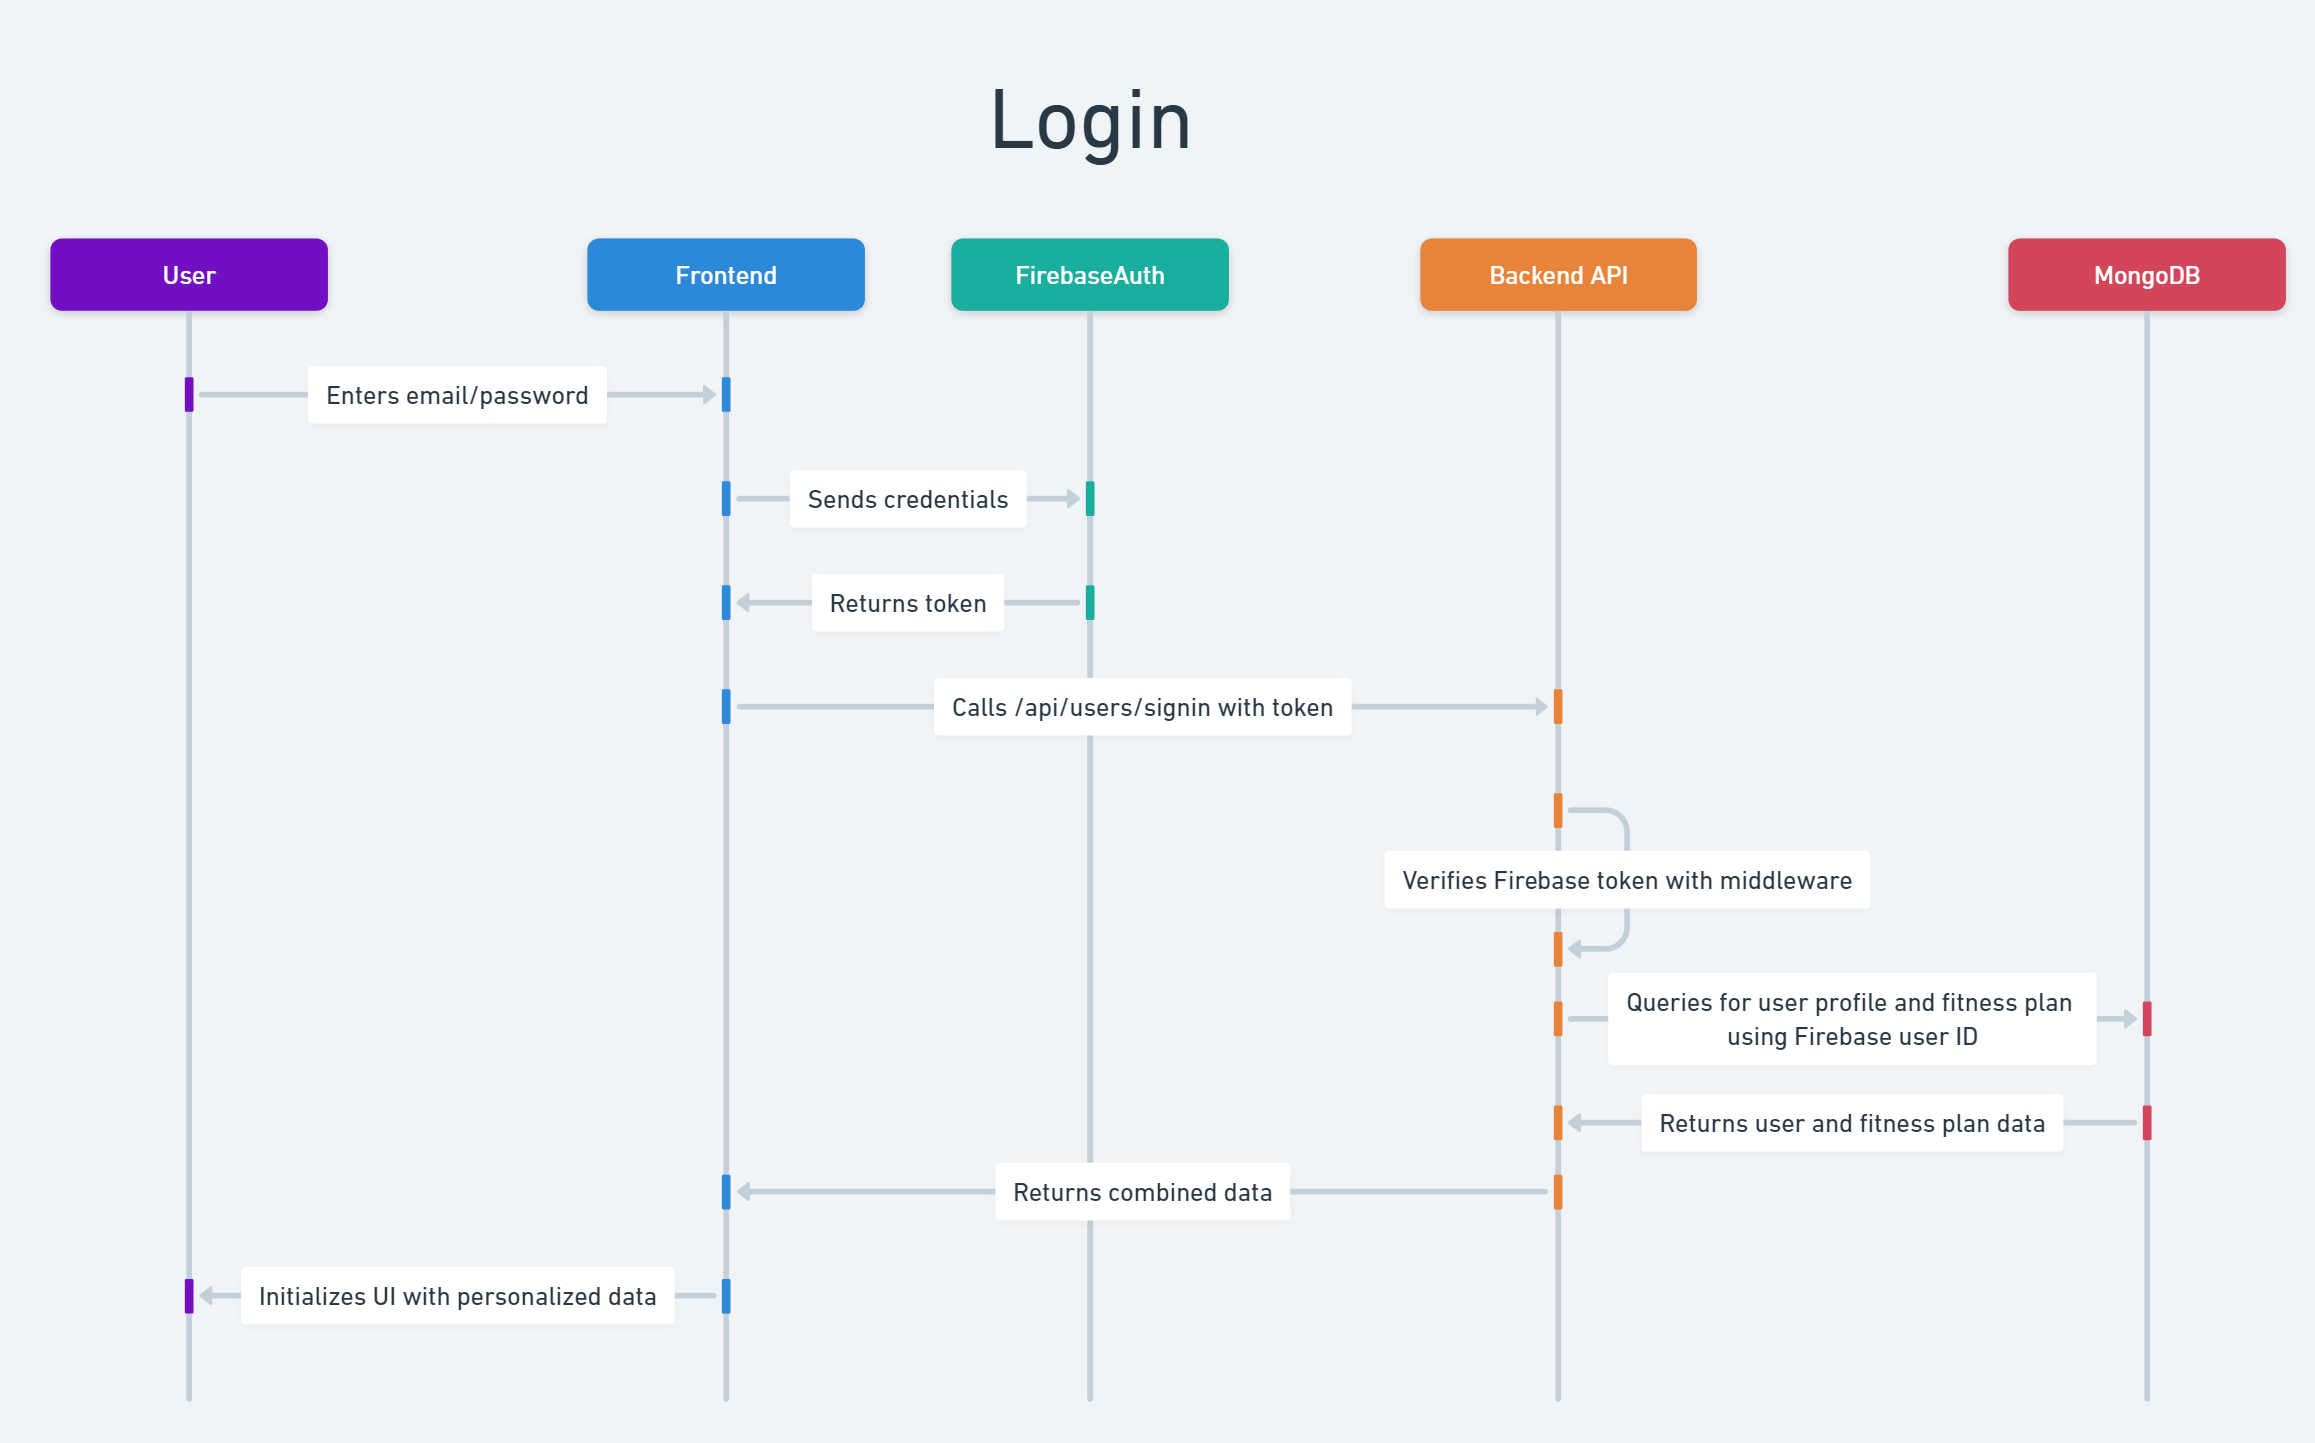
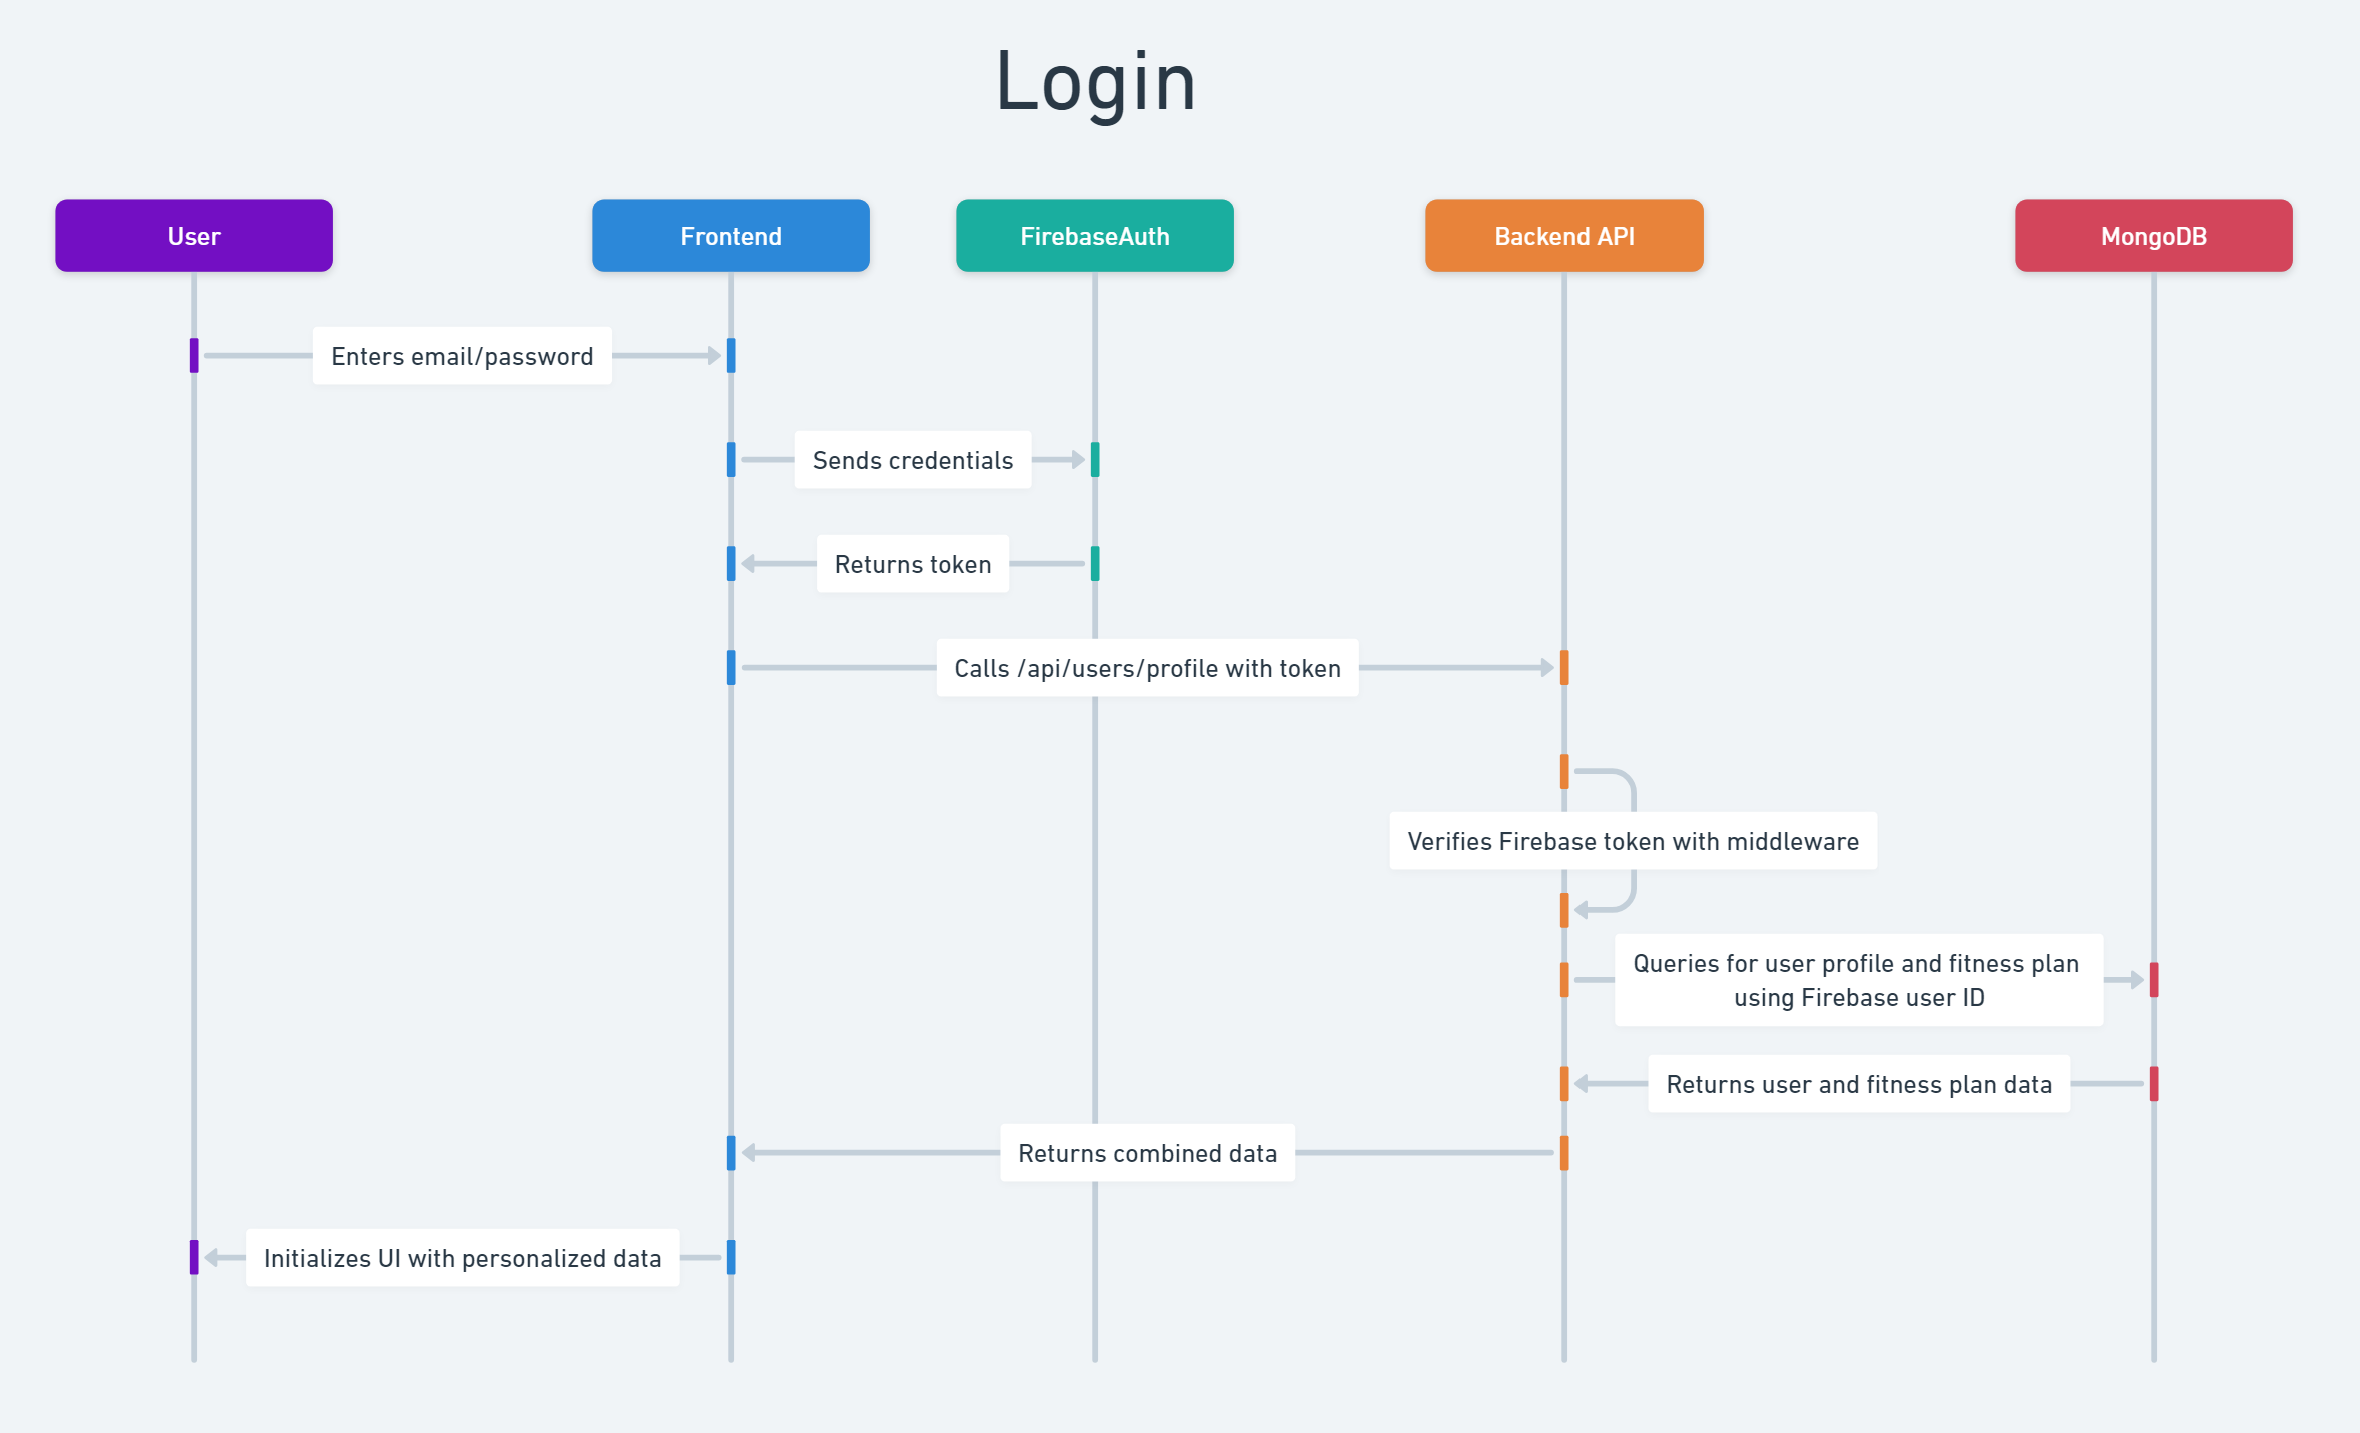
feat: add user profile retrieval endpoint and enhance onboarding logic

diff --git a/src/controllers/userController.js b/src/controllers/userController.js
@@ -2,6 +2,7 @@ import {
   createOrUpdateUserProfile,
   formatUserDataForAI,
   saveFitnessPlan,
+  getUserWithFitnessPlan,
 } from "../services/userService.js";
 import { generateContent as generateGeminiContent } from "../services/aiFitnessServiceGemini.js";
 
@@ -34,21 +35,48 @@ export const onboardUser = async (req, res) => {
         .json({ error: "Email in request does not match authenticated user" });
     }
 
-    console.log(`Onboarding user: ${userId}, email: ${userEmail}`);
+    console.log(
+      `Checking if user already exists: ${userId}, email: ${userEmail}`
+    );
+
+    // Check if user already exists with a fitness plan
+    const existingUserData = await getUserWithFitnessPlan(userId);
+
+    if (
+      existingUserData &&
+      existingUserData.user &&
+      existingUserData.fitnessPlan
+    ) {
+      console.log(`User already onboarded: ${userId}, returning existing data`);
+      return res.status(200).json({
+        message: "User already onboarded",
+        user: existingUserData.user,
+        fitnessPlan: existingUserData.fitnessPlan,
+      });
+    }
+
+    console.log(`Onboarding new user: ${userId}, email: ${userEmail}`);
 
     // Save user profile to MongoDB
     const savedUser = await createOrUpdateUserProfile(userId, userData);
 
     // Format user data for Gemini API
-    const aiRequestData = formatUserDataForAI(userData.profile);
-
-    // Generate personalized plan using Gemini
+    const aiRequestData = formatUserDataForAI(userData.profile); // Generate personalized plan using Gemini
     const generatedPlan = await generateGeminiContent(
       JSON.stringify(aiRequestData)
     );
 
     // Parse the generated plan
-    const parsedPlan = JSON.parse(generatedPlan);
+    let parsedPlan;
+    try {
+      parsedPlan = JSON.parse(generatedPlan);
+    } catch (parseError) {
+      console.error("Error parsing generated plan:", parseError);
+      return res.status(500).json({
+        error: "Failed to parse generated fitness plan",
+        rawResponse: generatedPlan.substring(0, 500) + "...", // Include partial raw response for debugging
+      });
+    }
 
     // Save plan to MongoDB
     const savedPlan = await saveFitnessPlan(userId, parsedPlan);
@@ -74,11 +102,16 @@ export const regeneratePlan = async (req, res) => {
     const userId = req.user.uid;
     const userEmail = req.user.email; // Email from Firebase token
 
-    // Get existing user profile
-    const userProfile = await findUserById(userId);
-    if (!userProfile) {
+    // Get existing user with fitness plan
+    const existingUserData = await getUserWithFitnessPlan(userId);
+
+    if (!existingUserData || !existingUserData.user) {
       return res.status(404).json({ error: "User not found" });
-    } // Additional verification: check if the user email matches the token email
+    }
+
+    const userProfile = existingUserData.user;
+
+    // Additional verification: check if the user email matches the token email
     if (
       userProfile.userInfo &&
       userProfile.userInfo.email &&
@@ -89,15 +122,22 @@ export const regeneratePlan = async (req, res) => {
       );
       // Still proceed with the request since userId is already verified
     } // Format user data for Gemini API
-    const aiRequestData = formatUserDataForAI(userProfile);
-
-    // Generate new personalized plan
+    const aiRequestData = formatUserDataForAI(userProfile); // Generate new personalized plan
     const generatedPlan = await generateGeminiContent(
       JSON.stringify(aiRequestData)
     );
 
     // Parse the generated plan
-    const parsedPlan = JSON.parse(generatedPlan);
+    let parsedPlan;
+    try {
+      parsedPlan = JSON.parse(generatedPlan);
+    } catch (parseError) {
+      console.error("Error parsing generated plan:", parseError);
+      return res.status(500).json({
+        error: "Failed to parse generated fitness plan",
+        rawResponse: generatedPlan.substring(0, 500) + "...", // Include partial raw response for debugging
+      });
+    }
 
     // Save or update plan in MongoDB
     const savedPlan = await saveFitnessPlan(userId, parsedPlan);
@@ -109,5 +149,33 @@ export const regeneratePlan = async (req, res) => {
   } catch (error) {
     console.error("Error regenerating fitness plan:", error);
     res.status(500).json({ error: "Failed to regenerate fitness plan" });
+  }
+};
+
+/**
+ * Get current user profile with fitness plan
+ * @route GET /api/users/profile
+ */
+export const getCurrentUserProfile = async (req, res) => {
+  try {
+    const userId = req.user.uid; // Firebase user ID from auth middleware
+
+    console.log(`Getting profile for user: ${userId}`);
+
+    // Get user data with fitness plan
+    const userData = await getUserWithFitnessPlan(userId);
+
+    if (!userData || !userData.user) {
+      return res.status(404).json({ error: "User profile not found" });
+    }
+
+    // Return user profile and fitness plan
+    res.status(200).json({
+      user: userData.user,
+      fitnessPlan: userData.fitnessPlan,
+    });
+  } catch (error) {
+    console.error("Error getting user profile:", error);
+    res.status(500).json({ error: "Failed to retrieve user profile" });
   }
 };

diff --git a/src/config/swagger.js b/src/config/swagger.js
@@ -158,6 +158,118 @@ const options = {
           type: "object",
           description: "Generated fitness plan",
         },
+        UserProfileResponse: {
+          type: "object",
+          properties: {
+            user: {
+              type: "object",
+              properties: {
+                _id: {
+                  type: "string",
+                  description: "MongoDB document ID",
+                },
+                firebaseUserId: {
+                  type: "string",
+                  description: "Firebase user ID",
+                },
+                userInfo: {
+                  type: "object",
+                  properties: {
+                    email: {
+                      type: "string",
+                      description: "User's email",
+                    },
+                  },
+                  additionalProperties: true,
+                },
+                profile: {
+                  $ref: "#/components/schemas/UserProfile",
+                },
+                createdAt: {
+                  type: "string",
+                  format: "date-time",
+                  description: "Timestamp when the user was created",
+                },
+                updatedAt: {
+                  type: "string",
+                  format: "date-time",
+                  description: "Timestamp when the user was last updated",
+                },
+              },
+            },
+            fitnessPlan: {
+              type: "object",
+              properties: {
+                _id: {
+                  type: "string",
+                  description: "MongoDB document ID",
+                },
+                userId: {
+                  type: "string",
+                  description: "Firebase user ID",
+                },
+                plan: {
+                  type: "object",
+                  description: "Generated fitness plan",
+                },
+                createdAt: {
+                  type: "string",
+                  format: "date-time",
+                  description: "Timestamp when the plan was created",
+                },
+                updatedAt: {
+                  type: "string",
+                  format: "date-time",
+                  description: "Timestamp when the plan was last updated",
+                },
+              },
+            },
+          },
+        },
+        UserProfile: {
+          type: "object",
+          description: "User profile information",
+          properties: {
+            personalGoalsExperience: {
+              type: "object",
+              properties: {
+                primaryFitnessGoal: {
+                  type: "string",
+                },
+                currentWeightLbs: {
+                  type: "number",
+                },
+                desiredWeightLbs: {
+                  type: "number",
+                },
+                heightCms: {
+                  type: "number",
+                },
+                currentFitnessLevel: {
+                  type: "string",
+                },
+                ageGroup: {
+                  type: "string",
+                },
+              },
+            },
+            scheduleAvailability: {
+              type: "object",
+            },
+            equipmentAccess: {
+              type: "object",
+            },
+            dietaryPreferences: {
+              type: "object",
+            },
+            healthConsiderations: {
+              type: "object",
+            },
+            preferencesMotivation: {
+              type: "object",
+            },
+          },
+        },
       },
       securitySchemes: {
         bearerAuth: {

diff --git a/src/routes/userRoutes.js b/src/routes/userRoutes.js
@@ -1,5 +1,9 @@
 import express from "express";
-import { onboardUser, regeneratePlan } from "../controllers/userController.js";
+import {
+  onboardUser,
+  regeneratePlan,
+  getCurrentUserProfile,
+} from "../controllers/userController.js";
 import { authMiddleware } from "../middlewares/authMiddleware.js";
 
 const router = express.Router();
@@ -77,5 +81,32 @@ router.post("/onboarding", authMiddleware, onboardUser);
  *         description: Server error
  */
 router.post("/regenerate-plan", authMiddleware, regeneratePlan);
+
+/**
+ * @swagger
+ * /users/profile:
+ *   get:
+ *     summary: Get current user profile with fitness plan
+ *     tags: [Users]
+ *     security:
+ *       - bearerAuth: []
+ *     description: >
+ *       This endpoint retrieves the current user's profile information and associated fitness plan.
+ *       The user is identified by the Firebase token in the Authorization header.
+ *     responses:
+ *       200:
+ *         description: User profile retrieved successfully
+ *       content:
+ *           application/json:
+ *             schema:
+ *               $ref: '#/components/schemas/UserProfileResponse'
+ *       401:
+ *         description: Unauthorized - Invalid token
+ *       404:
+ *         description: User profile not found
+ *       500:
+ *         description: Server error
+ */
+router.get("/profile", authMiddleware, getCurrentUserProfile);
 
 export default router;

diff --git a/src/services/userService.js b/src/services/userService.js
@@ -149,3 +149,38 @@ export const saveFitnessPlan = async (userId, plan) => {
     throw error;
   }
 };
+
+/**
+ * Find a user by Firebase userId and retrieve their fitness plan
+ * @param {string} firebaseUserId - Firebase user ID
+ * @returns {Promise<Object|null>} User and fitness plan or null if not found
+ */
+export const getUserWithFitnessPlan = async (firebaseUserId) => {
+  try {
+    await client.connect();
+    const db = client.db(DB_NAME);
+    const usersCollection = db.collection(COLLECTION_NAME);
+    const plansCollection = db.collection("fitnessPlans");
+
+    // Find the user
+    const user = await usersCollection.findOne({ firebaseUserId });
+
+    if (!user) {
+      return null;
+    }
+
+    // Find the associated fitness plan
+    const fitnessPlan = await plansCollection.findOne({
+      userId: firebaseUserId,
+    });
+
+    // Return both user and fitness plan
+    return {
+      user,
+      fitnessPlan: fitnessPlan || null,
+    };
+  } catch (error) {
+    console.error("Error finding user with fitness plan:", error);
+    throw error;
+  }
+};

diff --git a/docs/technical_design.md b/docs/technical_design.md
@@ -173,7 +173,7 @@ These flows detail the sequence of user actions and system responses.
 1.  **Credential Entry**: User enters email/password in mobile app.
 2.  **Authentication**: Mobile app sends credentials to Firebase Auth. Firebase validates and returns a token.
 3.  **Token Storage**: Mobile app receives the token and stores it.
-4.  **User Data Request**: Mobile app calls `/api/users/signin` with token in Authorization header.
+4.  **User Data Request**: Mobile app calls `/api/users/profile` with token in Authorization header.
 5.  **Token Verification**: API backend verifies Firebase token with authMiddleware.
 6.  **Data Fetching**: API queries MongoDB for user profile and fitness plan using Firebase user ID.
 7.  **Response**: API returns combined user and fitness plan data to mobile app.
@@ -195,7 +195,7 @@ These flows detail the sequence of user actions and system responses.
 **Steps**:
 
 1.  **User Marks Workout Complete**: The user marks a workout as completed for a given day in the front-end.
-2.  **Submit Workout Completion**: The front-end sends an HTTP request to the back-end to record the completion.
+2.  **Submit Workout Completion**: The front-end sends an HTTP request `/api/users/markWorkoutComplete` to the back-end to record the completion.
 3.  **Record Progress**: The back-end adds the completion date to the `progress` list within the user's current `fitnessPlans` document in MongoDB.
 4.  **Confirm Update**: The back-end sends a success response to the front-end.
 5.  **Display Confirmation**: The front-end visually updates the completed workout.
